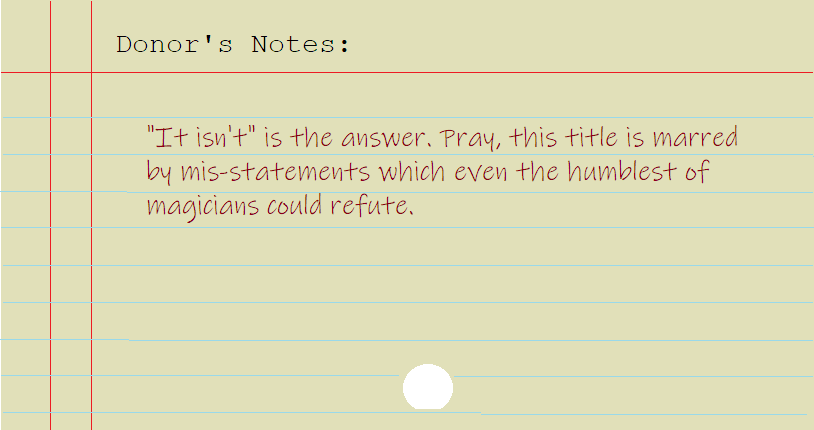
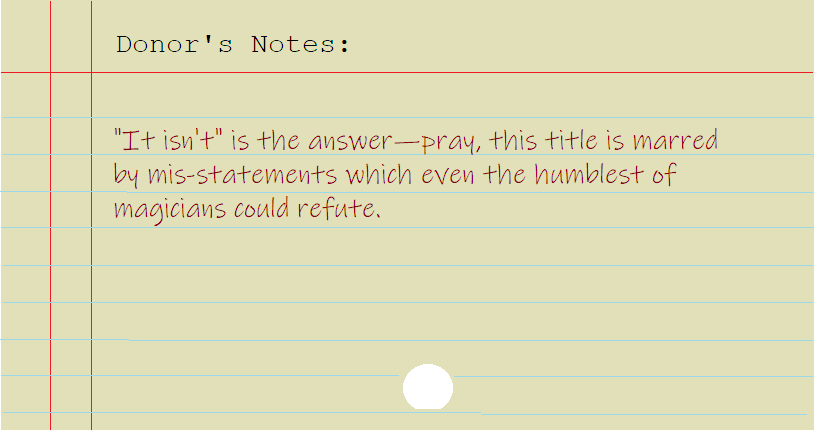
Update oily-date (His Life-Story) per factcheck

Changed region(s): [[0.1229, 0.2721, 0.9214, 0.4233], [0.1229, 0.4535, 0.4914, 0.514]]

diff --git a/site/src/frontend/puzzles/oily-date/solution.tsx b/site/src/frontend/puzzles/oily-date/solution.tsx
@@ -126,32 +126,104 @@ const CALL_NUMBERS: [number, string, string][] = [
   ],
 ];
 
-const NOTES: string[] = [
-  "Another attempt by my tragically misled friend to show evidence and convince me that spiritualism is real. PRAY-NOW, I did take careful notes of my thoughts in the pages, and signed the copy of course.",
-  "Another message. PLEASE, who even is Meslom?",
-  "Another supposed WWI narrative from beyond- and this time with things to SAY from that infamous Lodge.",
-  "As a master of illusions I can attest, the evidence for Spiritualism here is but a mere hallucination itself. PRAY-TELL, I’ll seek elsewhere for a more credible and rational read on the topic that won’t put you into a magnetic sleep as well.",
-  "As a renowned skeptic, I QUICKLY found myself bored and unimpressed by the supposed ’spiritual’ ramblings of Mr. Parker in this book. The only thing it inspired in me was a desire to escape its dull pages.",
-  "I can QUICKLY see through the so-called discourse delivered by the spirit and Mrs. Richmond. Nothing more than a sham, this day or the one after.",
-  "I was enthralled by this insightful book. His exposé describes the dangers of blind faith both modern and ancient. Delusion is indeed the ANSWER-BE QUICK all you frauds and hide from the reverend’s wise words.",
-  "“It isn’t” is the ANSWER-PRAY, this title is marred by mis-statements which even the humblest of magicians could refute.",
-  "Lady? Tiger? Neither? Don’t waste your time on this farce, as I SAY no to this deceitful attempt at resurrecting a great writer.",
-  "No real interest in “fair play”. The author will SAY try their parlor tricks, and for a price.",
-  "Not only does it provide pragmatic examples in math, but it also cleverly incorporates the accompanying bicycle deck. PRAY-ANSWER, what could make it a more engaging way for young minds to improve their computational skills?",
-  "Not sure how I feel about Fletcherising. PRAY-ANSWER, would this remedy improve longevity, wouldn’t we be hearing about it from someone older than young Horace?",
-  "NOW, I have read some far-fetched philosophy in my time, but this book takes the cake. These ramblings about the progressive development of nature are nothing but a jumbled mess, and a disgrace to the “author”.",
-  "On magic for the broadest audience of pre-professionals with many hands-on examples. SAY, why can’t we have more like these.",
-  "Potter discovers and uncovers the deceitful practices of spiritualism. PRAY-LOOK here for the facts explained.",
-  "Such a practical guide to start any magician’s curriculum without the need of complex and pricey items that the professionals may use. I can TELL this title will be one to recommend.",
-  "The English review calls this “A most pleasing and excellent little work. Its especial value consists in the numerous epitaphs in the verse which it supplies.” TELL me magician doesn’t fall under sundry world callings when committing me to the churchyard.",
-  "The one thing I had hoped this book would TELL me was why a native woman is writing Christmas poems from the beyond. It did not. Maybe they learned to commune from Mrs. Doyle.",
-  "The supposed letters from a husband beyond the grave on earth lacked any substance. They TELL a tale untrue, but were more importantly quite dull.",
-  "This is one philosophy that I don’t care to delve into NOW or in the future. As someone who has applied and witnessed the application of science to these proceedings, I can attest that the mere idea of a scientific séance is absurd.",
-  "This prince and his medium has QUICKLY tried my nerves. I’m not sure which are more farcical, the stories from his life or the stories after. This reads as pure fabrication from cover to cover.",
-  "This so-called “experimental” work demonstrates no real proof of the existence of spirits, or planes of the afterlife. One might as well PRAY-LOOK to the heavens, and hope for a sign. Using flimsy “scriptural” evidence and misguided beliefs, these musings on Christian deity and locals are nothing but.",
-  "To think a late editor had the time to meet all of these spirits. If I were to PRAY to talk to one each night, it might take me over two months. Additionally, I’d hope Faraday would have better things to do.",
-  "Upon reading this supposed discourse, I was sorely disappointed. BE QUICK to avoid this textual disaster, for it is nothing more than a collection of ramblings and nonsensical ruminations from the supposed world of spirits.",
-  "What a disappointment this book was. Filled with unsubstantiated claims and pseudo-scientific theories, this book serves as a mere charlatan’s attempt at profiting from people’s fears and hopes for life after death with no true ANSWER-BE QUICK, I told myself and only skim this book lest I waste my own future.",
+const NOTES: [string, string][] = [
+  [
+    "Another attempt by my tragically misled friend to show evidence and convince me that spiritualism is real. PRAY-NOW, I did take careful notes of my thoughts in the pages, and signed the copy of course.",
+    "BF1042 .M13",
+  ],
+  ["Another message. PLEASE, who even is Meslom?", "BF1301 .M25"],
+  [
+    "Another supposed WWI narrative from beyond- and this time with things to SAY from that infamous Lodge.",
+    "BF1301 .B23",
+  ],
+  [
+    "As a master of illusions I can attest, the evidence for Spiritualism here is but a mere hallucination itself. PRAY-TELL, I’ll seek elsewhere for a more credible and rational read on the topic that won’t put you into a magnetic sleep as well.",
+    "BF1031 .Z4",
+  ],
+  [
+    "As a renowned skeptic, I QUICKLY found myself bored and unimpressed by the supposed ’spiritual’ ramblings of Mr. Parker in this book. The only thing it inspired in me was a desire to escape its dull pages.",
+    "BF1311.P3 R33",
+  ],
+  [
+    "I can QUICKLY see through the so-called discourse delivered by the spirit and Mrs. Richmond. Nothing more than a sham, this day or the one after.",
+    "BF1301 .R5",
+  ],
+  [
+    "I was enthralled by this insightful book. His exposé describes the dangers of blind faith both modern and ancient. Delusion is indeed the ANSWER-BE QUICK all you frauds and hide from the reverend’s wise words.",
+    "BF1411 .C8",
+  ],
+  [
+    "“It isn’t” is the ANSWER-PRAY, this title is marred by mis-statements which even the humblest of magicians could refute.",
+    "GV1547 .B54 1899",
+  ],
+  [
+    "Lady? Tiger? Neither? Don’t waste your time on this farce, as I SAY no to this deceitful attempt at resurrecting a great writer.",
+    "PS3507.E23 R4 1913",
+  ],
+  [
+    "No real interest in “fair play”. The author will SAY try their parlor tricks, and for a price.",
+    "BF1275.C5 H35",
+  ],
+  [
+    "Not only does it provide pragmatic examples in math, but it also cleverly incorporates the accompanying bicycle deck. PRAY-ANSWER, what could make it a more engaging way for young minds to improve their computational skills?",
+    "QA95 .H3",
+  ],
+  [
+    "Not sure how I feel about Fletcherising. PRAY-ANSWER, would this remedy improve longevity, wouldn’t we be hearing about it from someone older than young Horace?",
+    "RM216 .F615",
+  ],
+  [
+    "NOW, I have read some far-fetched philosophy in my time, but this book takes the cake. These ramblings about the progressive development of nature are nothing but a jumbled mess, and a disgrace to the “author”.",
+    "BF1291 .W8 1882",
+  ],
+  [
+    "On magic for the broadest audience of pre-professionals with many hands-on examples. SAY, why can’t we have more like these.",
+    "GV1547 .D47",
+  ],
+  [
+    "Potter discovers and uncovers the deceitful practices of spiritualism. PRAY-LOOK here for the facts explained.",
+    "BF1251 .P68 1866",
+  ],
+  [
+    "Such a practical guide to start any magician’s curriculum without the need of complex and pricey items that the professionals may use. I can TELL this title will be one to recommend.",
+    "GV1547 .A25",
+  ],
+  [
+    "The English review calls this “A most pleasing and excellent little work. Its especial value consists in the numerous epitaphs in the verse which it supplies.” TELL me magician doesn’t fall under sundry world callings when committing me to the churchyard.",
+    "BT830 .M47",
+  ],
+  [
+    "The one thing I had hoped this book would TELL me was why a native woman is writing Christmas poems from the beyond. It did not. Maybe they learned to commune from Mrs. Doyle.",
+    "BF1301 .R525",
+  ],
+  [
+    "The supposed letters from a husband beyond the grave on earth lacked any substance. They TELL a tale untrue, but were more importantly quite dull.",
+    "BF1301 .H593",
+  ],
+  [
+    "This is one philosophy that I don’t care to delve into NOW or in the future. As someone who has applied and witnessed the application of science to these proceedings, I can attest that the mere idea of a scientific séance is absurd.",
+    "BF1301 .K8",
+  ],
+  [
+    "This prince and his medium has QUICKLY tried my nerves. I’m not sure which are more farcical, the stories from his life or the stories after. This reads as pure fabrication from cover to cover.",
+    "BF1311.H3 H3 1896",
+  ],
+  [
+    "This so-called “experimental” work demonstrates no real proof of the existence of spirits, or planes of the afterlife. One might as well PRAY-LOOK to the heavens, and hope for a sign. Using flimsy “scriptural” evidence and misguided beliefs, these musings on Christian deity and locals are nothing but.",
+    "BF1251 .H32",
+  ],
+  [
+    "To think a late editor had the time to meet all of these spirits. If I were to PRAY to talk to one each night, it might take me over two months. Additionally, I’d hope Faraday would have better things to do.",
+    "BF1301 .T885",
+  ],
+  [
+    "Upon reading this supposed discourse, I was sorely disappointed. BE QUICK to avoid this textual disaster, for it is nothing more than a collection of ramblings and nonsensical ruminations from the supposed world of spirits.",
+    "BF1291 .W5 1853",
+  ],
+  [
+    "What a disappointment this book was. Filled with unsubstantiated claims and pseudo-scientific theories, this book serves as a mere charlatan’s attempt at profiting from people’s fears and hopes for life after death with no true ANSWER-BE QUICK, I told myself and only skim this book lest I waste my own future.",
+    "BF1031 .S45",
+  ],
 ];
 
 const HOUDINI_CODE: [string, string, string][][] = [
@@ -289,12 +361,14 @@ const Solution = (): JSX.Element => {
       <StyledTable>
         <tr>
           <th>Note order</th>
-          <th>Matched Donor’s Notes</th>
+          <th>Donor’s Notes</th>
+          <th>Matched Call #</th>
         </tr>
-        {NOTES.map((note, i) => (
+        {NOTES.map(([note, call], i) => (
           <tr key={`note-${i}`}>
             <td>{i}</td>
             <td>{note}</td>
+            <td>{call}</td>
           </tr>
         ))}
       </StyledTable>

diff --git a/site/src/frontend/puzzles/oily-date/puzzle.tsx b/site/src/frontend/puzzles/oily-date/puzzle.tsx
@@ -74,7 +74,7 @@ export const ORDERED_NOTES: [string, string][] = [
   ],
   [
     note5,
-    "Donor’s Notes: As a renowned skeptic, I quickly found myself bored and unimpressed by the supposed ’spiritual’ ramblings of Mr. Parker in this book. The only thing it inspired in me was a desire to escape its dull pages.",
+    "Donor’s Notes: As a renowned skeptic, I quickly found myself bored and unimpressed by the supposed ‘spiritual’ ramblings of Mr. Parker in this book. The only thing it inspired in me was a desire to escape its dull pages.",
   ],
   [
     note6,
@@ -86,7 +86,7 @@ export const ORDERED_NOTES: [string, string][] = [
   ],
   [
     note8,
-    "Donor’s Notes: “It isn’t” is the answer. Pray, this title is marred by mis-statements which even the humblest of magicians could refute.",
+    "Donor’s Notes: “It isn’t” is the answer–pray, this title is marred by mis-statements which even the humblest of magicians could refute.",
   ],
   [
     note9,
